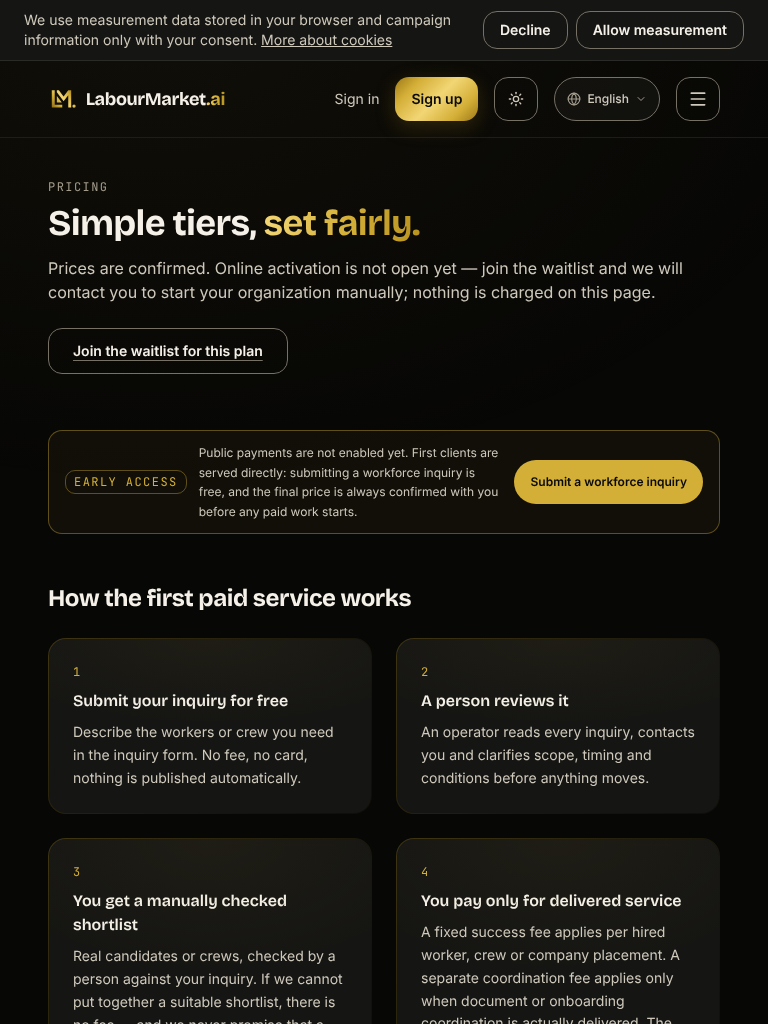
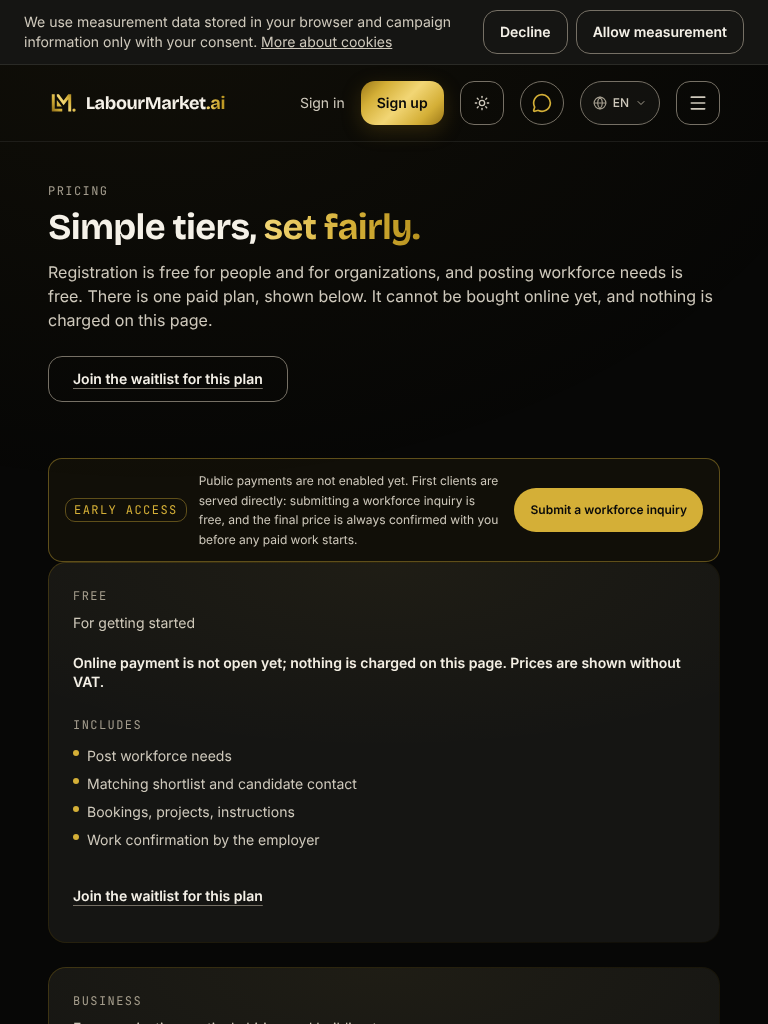
feat(nav): public assistant entry visible from 768 px (N2, part 1) (#3726)
Owner P0 2026-11-23 (AI assistant clearly visible), CAROUSEL_NAVIGATION_SPEC
N2: the intent bar's assistant entry is hidden below lg, so between md and
lg the header row now carries it as a 44 px icon - the same destinations
(/#find signed out, the conversation home signed in). The language control
shows its code until lg to make the room (measured in en/de/lt/ru; below md
German would push the menu off). Guard added; the stale premium-nav e2e
(guest entry is /#find since F8) fixed. Phones (<768) wait for a choice.

Claude-Session: https://claude.ai/code/session_011vBC1eyU3EySXpxY7JQoy5

diff --git a/apps/web/components/layouts/site-nav.tsx b/apps/web/components/layouts/site-nav.tsx
@@ -1,4 +1,5 @@
 import { getLocale, getTranslations } from "next-intl/server";
+import { MessageCircle } from "lucide-react";
 import { Link } from "@/lib/i18n/navigation";
 import { buttonLinkClassName } from "@/components/ui/Button";
 import { AuthCtaLink } from "@/components/layouts/auth-cta-link";
@@ -126,6 +127,20 @@ export async function SiteNav({
   // chat). A signed-out visitor is sent to the landing's question box instead
   // (`guestHref`, desktop bar); the phone menu marks it as a signed-in entry.
   const assistant = { href: ASSISTANT_HREF, guestHref: ASSISTANT_GUEST_HREF, label: tIntent("assistant") };
+  // The same entry as one icon, for the header between `md` and `lg` (N2).
+  // The conversation home is behind sign-in: never prefetched from here.
+  const assistantIcon = (href: string) => (
+    <Link
+      href={href as "/"}
+      prefetch={false}
+      aria-label={assistant.label}
+      title={assistant.label}
+      data-testid="header-assistant"
+      className="inline-flex size-11 items-center justify-center rounded-full border border-ink-500 text-text-primary transition-colors hover:border-brand-blue hover:text-brand-blue motion-reduce:transition-none"
+    >
+      <MessageCircle aria-hidden className="size-5 text-brand-blue" />
+    </Link>
+  );
 
   // ONE definition, rendered in exactly one place at any given width: in the
   // header from `sm` up, inside the disclosure below it. Sharing the fragment
@@ -256,7 +271,17 @@ export async function SiteNav({
           <span className="hidden sm:inline-flex">
             <ThemeToggleIcon labels={themeLabels} />
           </span>
-          <LocaleSwitcher className="flex" compactBelowSm />
+          {/* THE ASSISTANT, VISIBLE BELOW lg (owner P0 2026-11-23: "AI asistentas
+              aiškiai matomas ir pasiekiamas"; CAROUSEL_NAVIGATION_SPEC N2).
+              From lg the intent bar carries it; between md and lg it sits here,
+              in the room the language code frees (measured: below md the row
+              has no room for it in German without pushing the menu off). Same destinations as the
+              bar: the conversation home signed in, the landing's question box
+              (`/#find`) signed out. */}
+          <span className="hidden md:inline-flex lg:hidden">
+            <NavAuthCtas guest={assistantIcon(ASSISTANT_GUEST_HREF)} member={assistantIcon(ASSISTANT_HREF)} />
+          </span>
+          <LocaleSwitcher className="flex" compactBelowSm compactBelowLg />
           {/* Beta foundation audit M1: below lg the primary links above are
               display:none, which used to leave a phone visitor with NO path to
               any marketing page from the header. The disclosure menu carries

diff --git a/apps/web/tests/e2e/premium-nav.spec.ts b/apps/web/tests/e2e/premium-nav.spec.ts
@@ -123,10 +123,40 @@ for (const width of [1024, 1280, 1440] as const) {
       await expect(more).toBeFocused();
     });
 
-    test("the assistant entry is in the bar and points at the conversation home", async ({ page }) => {
+    test("the assistant entry is in the bar; signed out it opens the landing's question box", async ({ page }) => {
+      // Signed out, the entry is the landing's question box (`/#find`, owner
+      // P0 2026-11-15 F8); signed in it is the conversation home.
       await page.goto("/en/pricing");
-      await expect(page.getByTestId("intent-bar-assistant")).toHaveAttribute("href", /\/en\/dashboard$/);
+      await expect(page.getByTestId("intent-bar-assistant")).toHaveAttribute("href", /\/en#find$/);
+      await expect(page.getByTestId("header-assistant")).toBeHidden();
     });
+  });
+}
+
+// Between md and lg the intent bar is hidden: the assistant is an icon in the
+// header row instead (owner P0 2026-11-23, CAROUSEL_NAVIGATION_SPEC N2).
+for (const width of [768, 1023] as const) {
+  test.describe(`assistant in the header @${width}px`, () => {
+    test.use({ viewport: { width, height: 800 } });
+    // English and German: the narrowest and the widest header row measured.
+    for (const locale of ["en", "de"] as const) {
+      test(`${locale}: visible, 44px, opens the question box; the row does not overflow`, async ({ page }) => {
+        await page.goto(`/${locale}/pricing`);
+        const entry = page.getByTestId("header-assistant");
+        await expect(entry).toBeVisible();
+        await expect(entry).toHaveAttribute("href", new RegExp(`/${locale}#find$`));
+        const box = (await entry.boundingBox())!;
+        expect(box.width).toBeGreaterThanOrEqual(44);
+        expect(box.height).toBeGreaterThanOrEqual(44);
+        const brand = (await page.locator("header a").first().boundingBox())!;
+        expect(box.x, "the entry does not sit on the brand").toBeGreaterThanOrEqual(brand.x + brand.width);
+        expect(box.x + box.width).toBeLessThanOrEqual(width);
+        // Nothing in the row is pushed off the screen by it.
+        const menu = (await page.getByTestId("mobile-nav-toggle").boundingBox())!;
+        expect(menu.x + menu.width, "the menu button stays on screen").toBeLessThanOrEqual(width);
+        expect(await page.evaluate(() => document.documentElement.scrollWidth - window.innerWidth)).toBeLessThanOrEqual(1);
+      });
+    }
   });
 }
 

diff --git a/apps/web/lib/guards/public-assistant-entry.test.ts b/apps/web/lib/guards/public-assistant-entry.test.ts
@@ -1,0 +1,32 @@
+import { readFileSync } from "node:fs";
+import { join } from "node:path";
+import { describe, expect, it } from "vitest";
+
+/**
+ * The assistant is visible in the public header at every width it has room
+ * (owner P0 2026-11-23: "AI asistentas aiškiai matomas ir pasiekiamas";
+ * CAROUSEL_NAVIGATION_SPEC N2). From `lg` the intent bar carries it; between
+ * `md` and `lg` an icon in the header row does, in the room the language
+ * code frees. Same destinations as the bar: the conversation home signed in,
+ * the landing's question box signed out.
+ */
+const nav = readFileSync(join(__dirname, "..", "..", "components/layouts/site-nav.tsx"), "utf8");
+const bar = readFileSync(join(__dirname, "..", "..", "components/layouts/intent-mega-menu.tsx"), "utf8");
+
+describe("the public assistant entry", () => {
+  it("the bar carries it from lg", () => {
+    expect(nav).toMatch(/<IntentMegaMenu\s+className="hidden lg:block"/);
+    expect(bar).toMatch(/data-testid="intent-bar-assistant"/);
+  });
+
+  it("between md and lg the header row carries it, to the same two destinations", () => {
+    expect(nav).toMatch(/<span className="hidden md:inline-flex lg:hidden">\s*<NavAuthCtas guest=\{assistantIcon\(ASSISTANT_GUEST_HREF\)\} member=\{assistantIcon\(ASSISTANT_HREF\)\} \/>/);
+    expect(nav).toMatch(/data-testid="header-assistant"/);
+    expect(nav).toMatch(/aria-label=\{assistant\.label\}/);
+    expect(nav).toMatch(/inline-flex size-11/);
+  });
+
+  it("the language control shows its code until lg, which is what makes the room", () => {
+    expect(nav).toMatch(/<LocaleSwitcher className="flex" compactBelowSm compactBelowLg \/>/);
+  });
+});

diff --git a/apps/web/components/marketing/locale-switcher.tsx b/apps/web/components/marketing/locale-switcher.tsx
@@ -67,6 +67,7 @@ export const NATIVE_LOCALE_NAMES: Record<string, string> = {
 export function LocaleSwitcher({
   className,
   compactBelowSm = false,
+  compactBelowLg = false,
   compactUntilWide = false,
   inline = false,
 }: {
@@ -93,6 +94,12 @@ export function LocaleSwitcher({
    * the full name.
    */
   compactBelowSm?: boolean;
+  /**
+   * With `compactBelowSm`: keep the CODE up to `lg` too, where the public
+   * header also carries the assistant entry (owner P0 2026-11-23,
+   * CAROUSEL_NAVIGATION_SPEC N2) and has no room for the native name.
+   */
+  compactBelowLg?: boolean;
   /**
    * Show the locale CODE until the host bar is wide enough for every label
    * (≥1800px), then the native name. OPT-IN for the ONE authenticated header,
@@ -170,10 +177,10 @@ export function LocaleSwitcher({
           </>
         ) : compactBelowSm ? (
           <>
-            <span className="hidden sm:inline">
+            <span className={compactBelowLg ? "hidden lg:inline" : "hidden sm:inline"}>
               {NATIVE_LOCALE_NAMES[active] ?? active.toUpperCase()}
             </span>
-            <span className="sm:hidden">{active.toUpperCase()}</span>
+            <span className={compactBelowLg ? "lg:hidden" : "sm:hidden"}>{active.toUpperCase()}</span>
           </>
         ) : (
           <span>{NATIVE_LOCALE_NAMES[active] ?? active.toUpperCase()}</span>

diff --git a/apps/web/lib/guards/mobile-marketing-nav.test.ts b/apps/web/lib/guards/mobile-marketing-nav.test.ts
@@ -137,7 +137,9 @@ describe("the mobile menu covers exactly the viewports the desktop nav hides", (
     expect(menuSrc).not.toMatch(/<ThemeToggleIcon\b/);
     expect(menuSrc).not.toMatch(/<LocaleSwitcher\b/);
     // The language switcher is in the header row at every width (ad-locale rule).
-    expect(navSrc).toMatch(/<LocaleSwitcher className="flex" compactBelowSm \/>/);
+    // (It shows its code up to `lg`, where the row also carries the
+    // assistant entry: CAROUSEL_NAVIGATION_SPEC N2.)
+    expect(navSrc).toMatch(/<LocaleSwitcher className="flex" compactBelowSm compactBelowLg \/>/);
     expect(navSrc.match(/<LocaleSwitcher\b/g)).toHaveLength(1);
   });
 });
